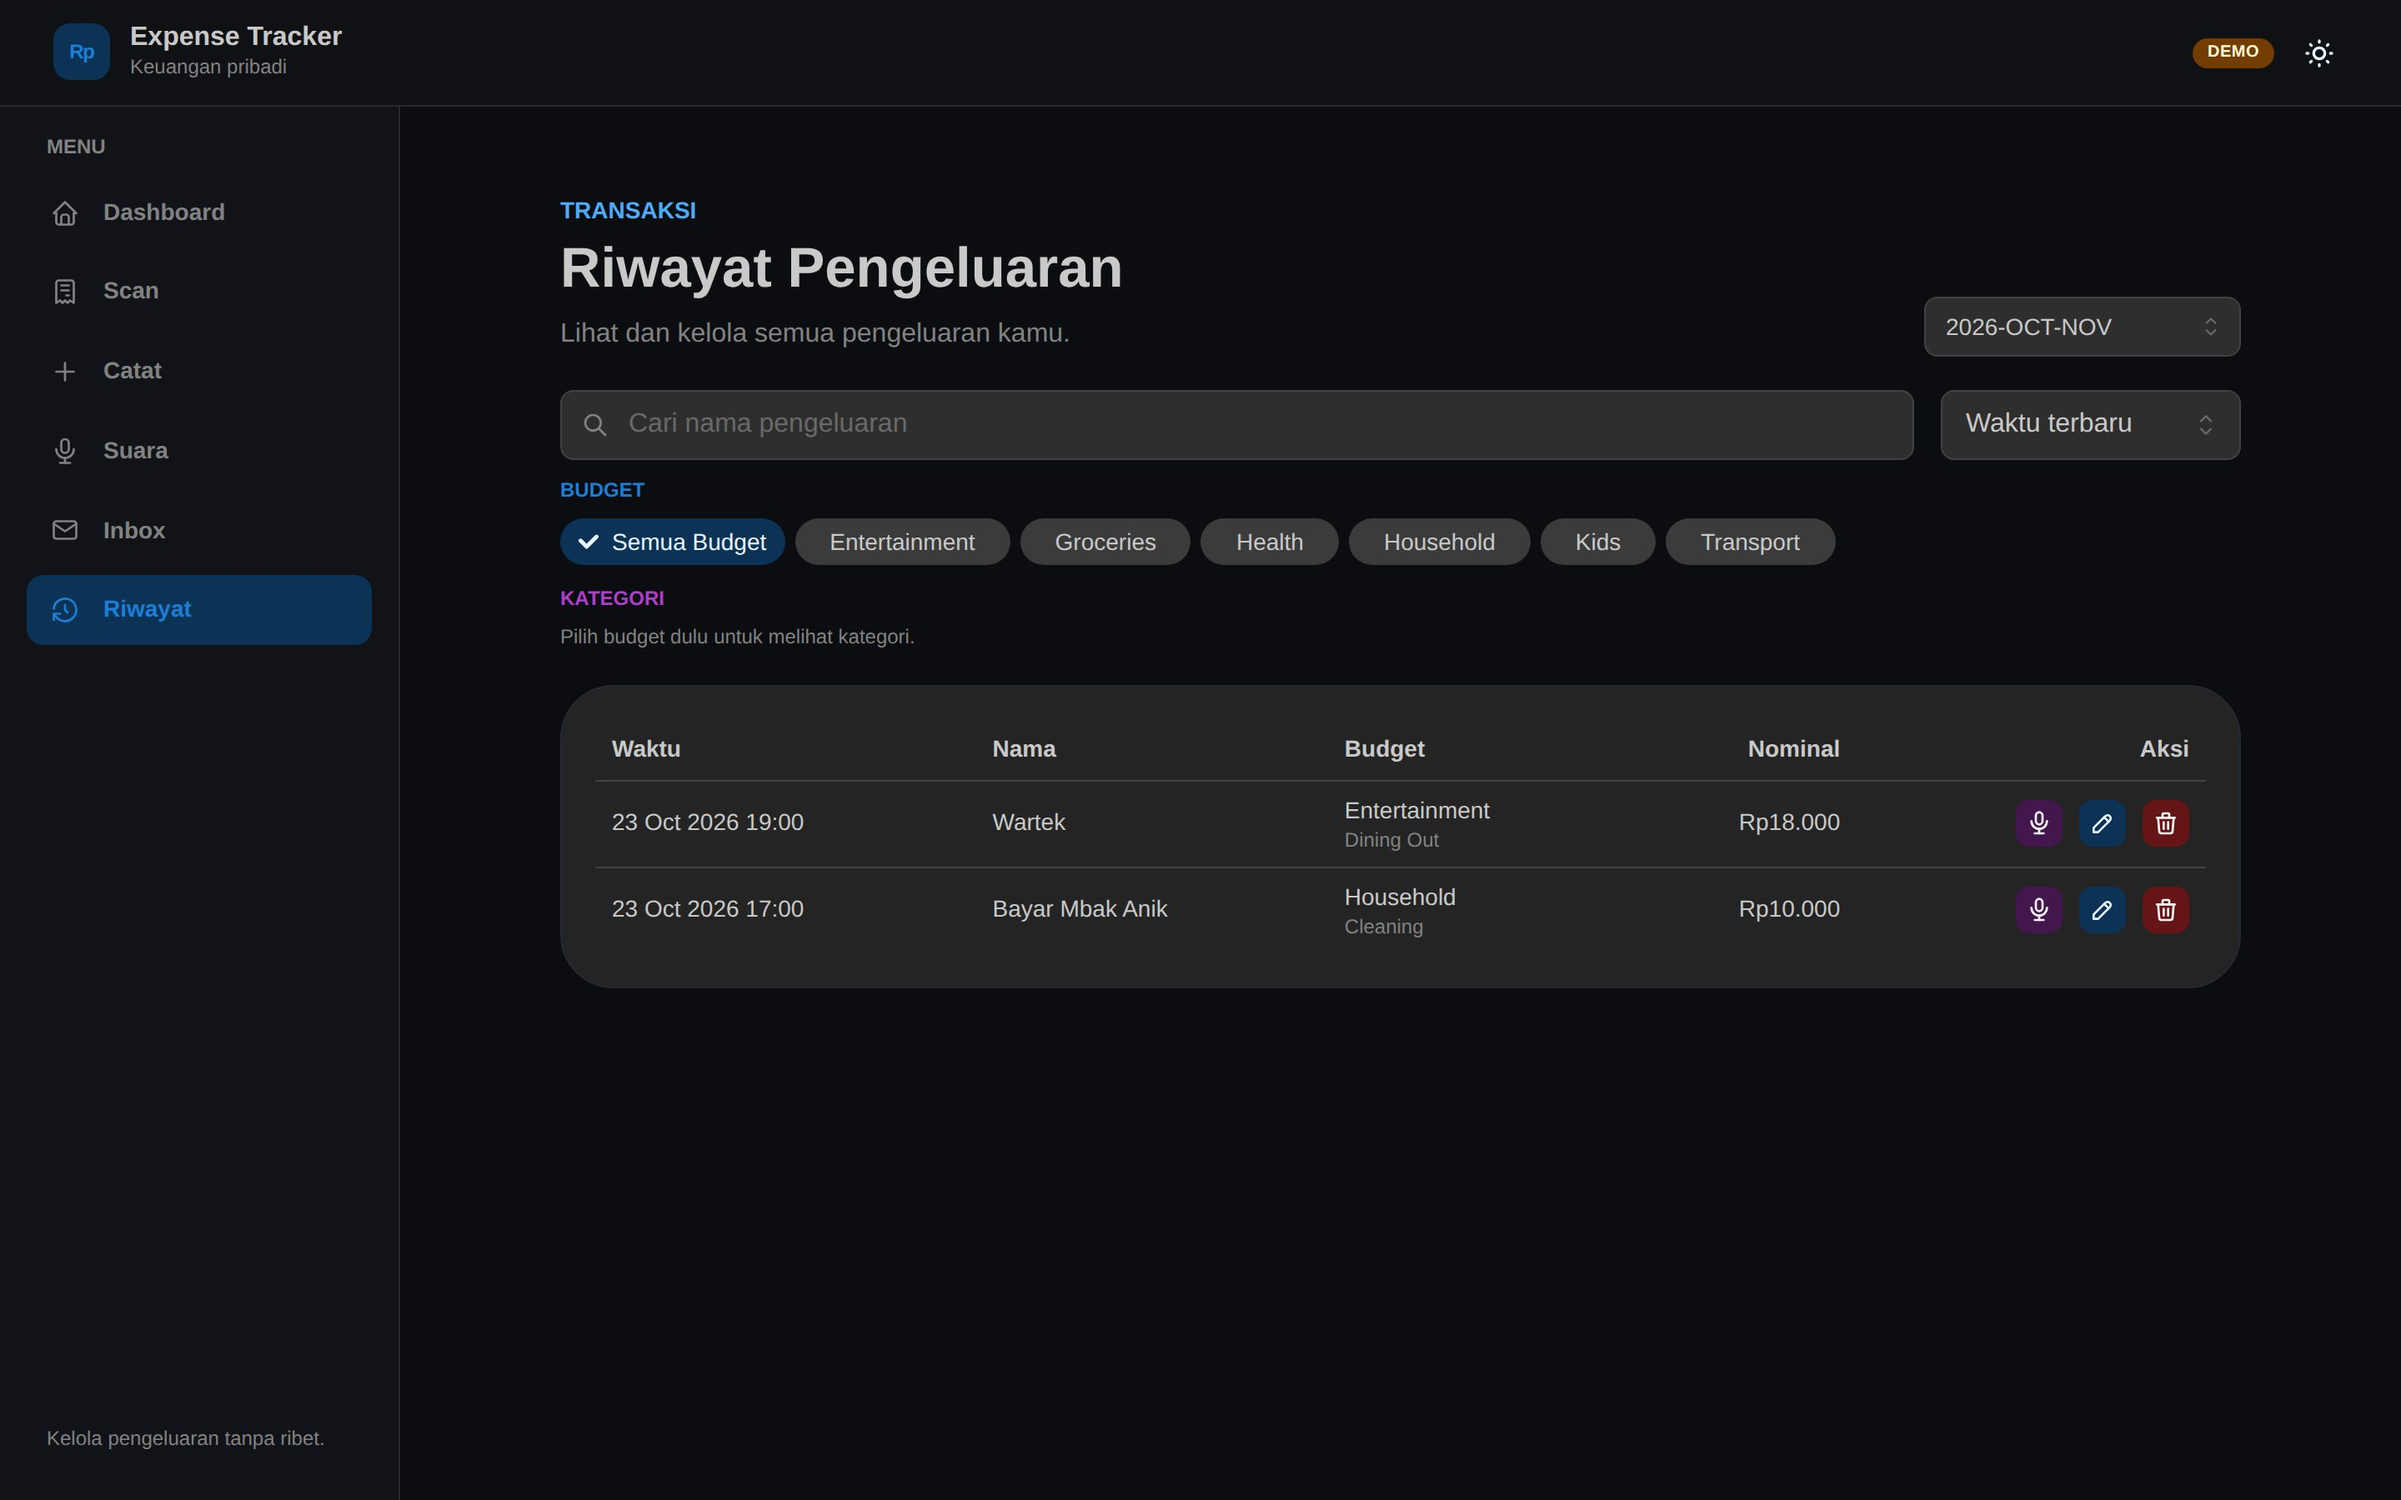
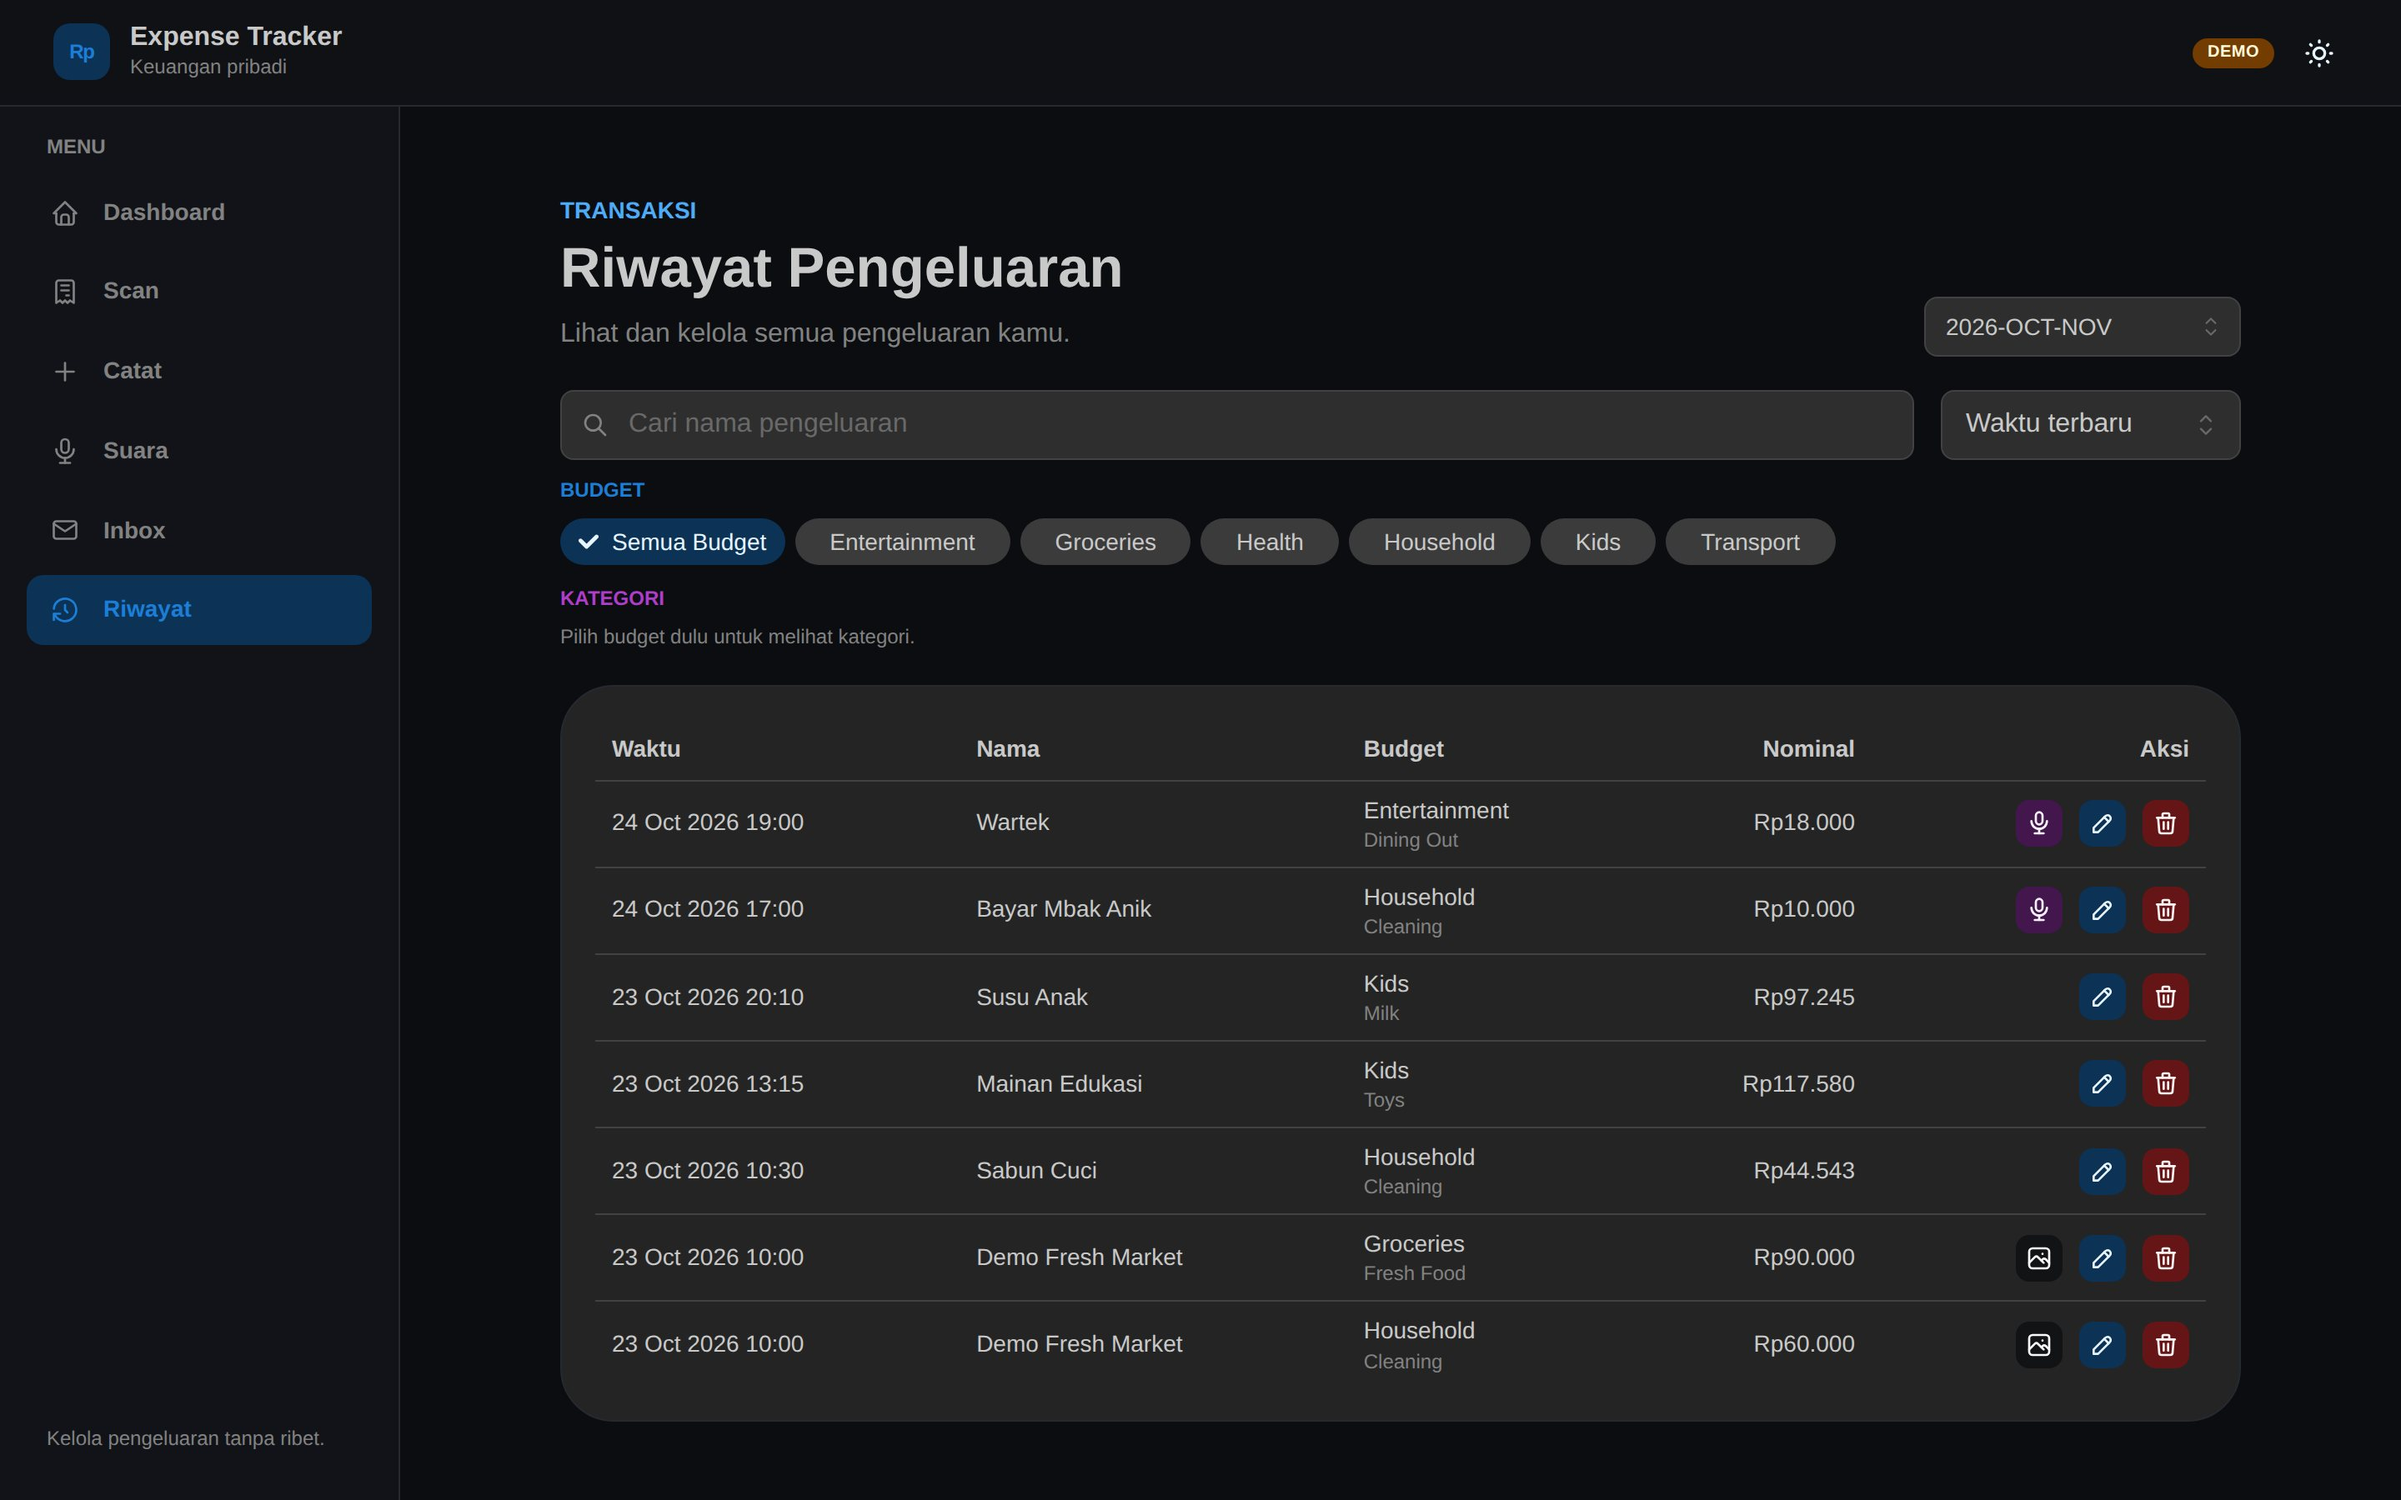
chore(demo): simulasikan report PDF dan perbarui screenshot
- generate report contoh saat reset data demo
- perbaiki periode demo mengikuti aturan tanggal gajian
- tambah screenshot halaman Laporan desktop/mobile
- perbarui screenshot demo terbaru

diff --git a/scripts/demo-report/BackfillReport.java b/scripts/demo-report/BackfillReport.java
@@ -1,0 +1,113 @@
+import com.expensetracker.data.BudgetRepository;
+import com.expensetracker.data.ExpenseData;
+import com.expensetracker.data.ExpenseRepository;
+import com.expensetracker.data.PaydayOverrideRepository;
+import com.expensetracker.data.PeriodReportRepository;
+import com.expensetracker.data.TopUpRepository;
+import com.expensetracker.model.BudgetOption;
+import com.expensetracker.model.PeriodReportData;
+import com.expensetracker.model.PeriodReportStatistics;
+import com.expensetracker.model.TopUpResponse;
+import com.expensetracker.service.PaydayCalendar;
+import com.expensetracker.service.PeriodReportCalculator;
+import com.expensetracker.service.PeriodReportPdfRenderer;
+import com.expensetracker.service.PeriodService;
+import org.springframework.jdbc.core.JdbcTemplate;
+import org.springframework.jdbc.datasource.DriverManagerDataSource;
+
+import java.nio.file.Files;
+import java.nio.file.Path;
+import java.nio.file.Paths;
+import java.time.LocalDate;
+import java.time.LocalDateTime;
+import java.time.ZoneId;
+import java.util.List;
+
+public class BackfillReport {
+
+    public static void main(String[] args) throws Exception {
+        if (args.length == 0) {
+            System.out.println("NO_PERIODS");
+            return;
+        }
+        String uploadDir = System.getenv().getOrDefault("UPLOAD_DIR", "/app/uploads-demo");
+
+        DriverManagerDataSource dataSource = new DriverManagerDataSource();
+        dataSource.setDriverClassName("com.mysql.cj.jdbc.Driver");
+        dataSource.setUrl(System.getenv("DB_URL"));
+        dataSource.setUsername(System.getenv("DB_USER"));
+        dataSource.setPassword(System.getenv("DB_PASSWORD"));
+        JdbcTemplate jdbc = new JdbcTemplate(dataSource);
+
+        PeriodService periodService = new PeriodService(new PaydayOverrideRepository(jdbc));
+        ExpenseRepository expenseRepository = new ExpenseRepository(jdbc);
+        TopUpRepository topUpRepository = new TopUpRepository(jdbc);
+        BudgetRepository budgetRepository = new BudgetRepository(jdbc);
+        PeriodReportRepository reportRepository = new PeriodReportRepository(jdbc);
+        PeriodReportPdfRenderer renderer = new PeriodReportPdfRenderer();
+
+        for (String period : args) {
+            generate(period, uploadDir, periodService, expenseRepository, topUpRepository,
+                    budgetRepository, reportRepository, renderer);
+        }
+    }
+
+    private static void generate(String period, String uploadDir, PeriodService periodService,
+                                 ExpenseRepository expenseRepository, TopUpRepository topUpRepository,
+                                 BudgetRepository budgetRepository, PeriodReportRepository reportRepository,
+                                 PeriodReportPdfRenderer renderer) throws Exception {
+        if (reportRepository.exists(period)) {
+            System.out.println("ALREADY_EXISTS " + period);
+            return;
+        }
+
+        PaydayCalendar calendar = periodService.calendar();
+        LocalDate start = calendar.paydayForPeriod(period);
+        LocalDate endExclusive = calendar.paydayForPeriod(calendar.nextPeriod(period));
+        LocalDate end = endExclusive.minusDays(1);
+
+        List<ExpenseData> expenses = expenseRepository.getExpenses(period);
+        List<TopUpResponse> topUps = topUpRepository.findByDateRange(
+                start.atStartOfDay(), endExclusive.atStartOfDay());
+        List<BudgetOption> budgets = budgetRepository.getOptions();
+
+        long expenseTotal = expenses.stream().mapToLong(ExpenseData::amount).sum();
+        long topUpTotal = topUps.stream()
+                .map(TopUpResponse::amount)
+                .filter(java.util.Objects::nonNull)
+                .mapToLong(Long::longValue)
+                .sum();
+        PeriodReportData data = new PeriodReportData(
+                period,
+                start,
+                end,
+                LocalDateTime.now(ZoneId.of("Asia/Jakarta")),
+                "Asia/Jakarta",
+                expenses,
+                topUps,
+                budgets,
+                expenseTotal,
+                topUpTotal,
+                expenseRepository.totalForPeriod(period),
+                expenseRepository.countForPeriod(period));
+
+        PeriodReportStatistics statistics = PeriodReportCalculator.calculate(data);
+        byte[] pdf = renderer.render(data, statistics);
+        Path directory = Paths.get(uploadDir, "reports");
+        Files.createDirectories(directory);
+        String fileName = "report-" + period + ".pdf";
+        Files.write(directory.resolve(fileName), pdf);
+        boolean inserted = reportRepository.insert(period, fileName, pdf.length);
+
+        System.out.println("PERIOD=" + period);
+        System.out.println("RANGE=" + start + ".." + end);
+        System.out.println("TRANSACTIONS=" + expenses.size());
+        System.out.println("EXPENSE_TOTAL=" + expenseTotal);
+        System.out.println("TOPUP_TOTAL=" + topUpTotal);
+        System.out.println("RECONCILED=" + statistics.integrity().ok());
+        System.out.println("FILE=" + directory.resolve(fileName));
+        System.out.println("SIZE=" + pdf.length);
+        System.out.println("INSERTED=" + inserted);
+    }
+}
+

diff --git a/scripts/seed_demo_data.py b/scripts/seed_demo_data.py
@@ -72,22 +72,29 @@ VOICE_ASSETS = [
 ]
 
 
+def payday(year: int, month: int) -> datetime.date:
+    day = datetime.date(year, month, 25)
+    while day.weekday() >= 5:
+        day -= datetime.timedelta(days=1)
+    return day
+
+
+def period_month(d: datetime.date) -> tuple[int, int]:
+    if d >= payday(d.year, d.month):
+        return d.year, d.month
+    if d.month == 1:
+        return d.year - 1, 12
+    return d.year, d.month - 1
+
+
 def period_of(d: datetime.date) -> str:
-    y, m = d.year, d.month
-    if d.day < 25:
-        m -= 1
-        if m == 0:
-            m, y = 12, y - 1
+    y, m = period_month(d)
     return f'{y}-{MONTHS[m - 1]}-{MONTHS[m % 12]}'
 
 
 def period_start(d: datetime.date) -> str:
-    y, m = d.year, d.month
-    if d.day < 25:
-        m -= 1
-        if m == 0:
-            m, y = 12, y - 1
-    return f'{y}-{m:02d}-25'
+    y, m = period_month(d)
+    return payday(y, m).isoformat()
 
 
 def esc(value: str) -> str:

diff --git a/README.md b/README.md
@@ -10,7 +10,7 @@ Aplikasi web untuk mencatat pengeluaran harian, memantau saldo per budget, dan m
 
 PIN demo: **2026**
 
-Demo bersifat **read-only** (tidak bisa menambah/mengubah data), memakai data dummy, dan tidak terhubung ke AI, email, atau notifier production. Badge **DEMO** di kanan atas menandakan mode read-only. Demo berisi contoh invoice (`TO_REVIEW`/`SUBMITTED`/`NOT_INVOICE`), email inbox, dan voice note (`TO_REVIEW`/`SUBMITTED`/`NOT_EXPENSE`).
+Demo bersifat **read-only** (tidak bisa menambah/mengubah data), memakai data dummy, dan tidak terhubung ke AI, email, atau notifier production. Badge **DEMO** di kanan atas menandakan mode read-only. Demo berisi contoh invoice (`TO_REVIEW`/`SUBMITTED`/`NOT_INVOICE`), email inbox, voice note (`TO_REVIEW`/`SUBMITTED`/`NOT_EXPENSE`), dan beberapa report PDF periode sebelumnya.
 
 ## Screenshots
 
@@ -35,9 +35,13 @@ Tampilan desktop memakai sidebar di kiri, konten lebar, dan tabel untuk daftar t
 |---|---|
 | ![Scan desktop](docs/screenshots/scan-desktop.jpg) | ![Inbox desktop](docs/screenshots/inbox-desktop.jpg) |
 
-| Voice Assistant | Halaman PIN |
+| Voice Assistant | Laporan |
 |---|---|
-| ![Voice desktop](docs/screenshots/voice-desktop.jpg) | ![Lock desktop](docs/screenshots/lock-desktop.jpg) |
+| ![Voice desktop](docs/screenshots/voice-desktop.jpg) | ![Laporan desktop](docs/screenshots/laporan-desktop.jpg) |
+
+<p align="center">
+  <img src="docs/screenshots/lock-desktop.jpg" alt="Halaman PIN desktop" width="55%" />
+</p>
 
 ### Mobile
 
@@ -51,9 +55,9 @@ Tampilan mobile mengganti sidebar menjadi **bottom navigation**, form menjadi sa
 |---|---|---|
 | <img src="docs/screenshots/scan-mobile.jpg" width="100%" /> | <img src="docs/screenshots/inbox-mobile.jpg" width="100%" /> | <img src="docs/screenshots/voice-mobile.jpg" width="100%" /> |
 
-<p align="center">
-  <img src="docs/screenshots/lock-mobile.jpg" alt="PIN mobile" width="45%" />
-</p>
+| Laporan | Halaman PIN |
+|---|---|
+| <img src="docs/screenshots/laporan-mobile.jpg" width="100%" /> | <img src="docs/screenshots/lock-mobile.jpg" width="100%" /> |
 
 ---
 
